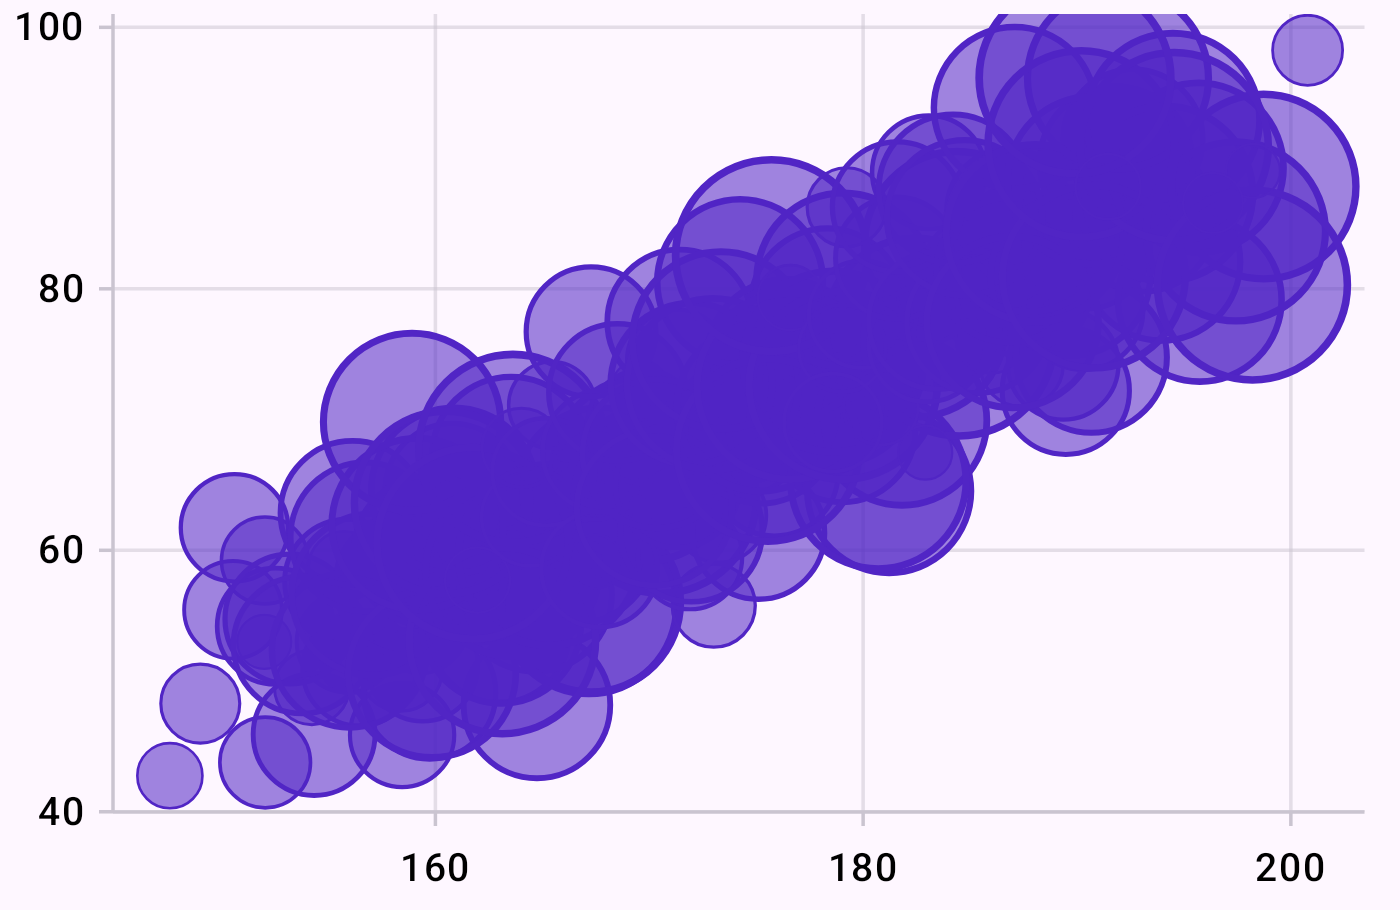
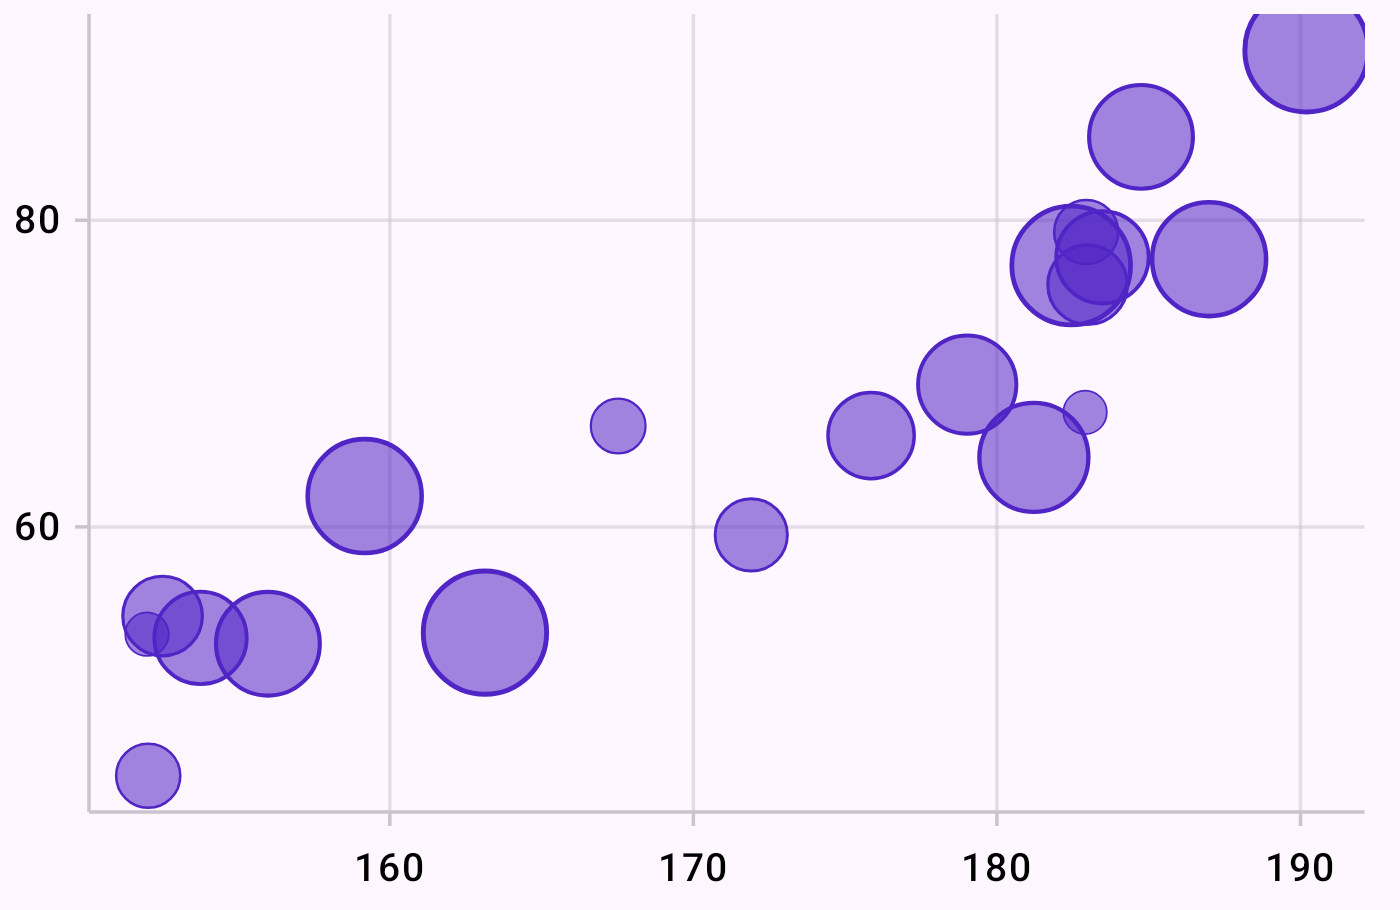
docs: make three chart pictures show what their charts do
The bubble chart was the reported one, and looking at the rest of the
gallery turned up two more with the same character: a picture that is
technically a correct render and tells the reader nothing.

**Bubble chart.** All 160 people at the default size range drew one solid
overlapping mass. A bubble chart is read by comparing areas, which needs
the areas to be separable. Twenty of the hundred and sixty, with the size
range bounded to 5-18dp.

**Network graph.** The capture was very nearly blank — 7KB against a
typical 120KB. The force simulation runs on Dispatchers.Default, which
neither `waitForIdle` nor the test's frame clock waits for, so the capture
was taken while the layout still had no positions. `ChartRenderMode.Static`
is the library's own answer to exactly this: it substitutes the circular
layout, which is instant and reproducible, and the KDoc on it says so.
The docs capture is a static export and should always have been asking
for one. With `GraphLabels.All` it now reads as a service topology.

**Radar chart.** It drew a perfect regular hexagon from 78/92/61/45/70/83.
That is not a bug: `RadarNormalization.PerAxis` is the default and scales
each spoke to its own metric's range, and a single series makes that range
one value wide, so every point lands on the outer ring whatever the numbers
are. The picture was faithfully illustrating the README's first radar
example, which is the thing actually at fault — a first example that can
[…]

diff --git a/app/src/androidTest/java/io/devkit/DocsAssetCaptureTest.kt b/app/src/androidTest/java/io/devkit/DocsAssetCaptureTest.kt
@@ -62,6 +62,8 @@ import io.devkit.chartkit.charts.Histogram
 import io.devkit.chartkit.charts.HorizontalBarChart
 import io.devkit.chartkit.charts.LineChart
 import io.devkit.chartkit.charts.NetworkGraph
+import io.devkit.chartkit.layer.graph.GraphLabels
+import io.devkit.chartkit.render.ChartRenderMode
 import io.devkit.chartkit.charts.PieChart
 import io.devkit.chartkit.charts.RadarChart
 import io.devkit.chartkit.charts.RadialBarChart
@@ -165,7 +167,21 @@ class DocsAssetCaptureTest {
             ScatterChart(demo.people, x = { it.heightCm }, y = { it.weightKg }, sceneState = scene, modifier = m)
         },
         Shot("bubble-chart") { _, m ->
-            BubbleChart(demo.people, x = { it.heightCm }, y = { it.weightKg }, size = { it.ageYears }, modifier = m)
+            // Twenty of the hundred and sixty, and a bounded size range.
+            //
+            // A bubble chart is read by comparing areas, which needs the areas
+            // to be separable: the whole sample at the default sizing drew a
+            // single overlapping mass in which no individual bubble — and so no
+            // value of the third variable — could be seen at all. A scatter can
+            // carry that many points; a bubble chart cannot, and a picture that
+            // pretends otherwise teaches the wrong thing about when to reach
+            // for one.
+            BubbleChart(
+                demo.people.filterIndexed { index, _ -> index % 8 == 0 },
+                x = { it.heightCm }, y = { it.weightKg }, size = { it.ageYears },
+                minBubbleSize = 5.dp, maxBubbleSize = 18.dp,
+                modifier = m,
+            )
         },
         Shot("histogram") { scene, m ->
             Histogram(demo.responseTimes, value = { value: Double -> value }, sceneState = scene, modifier = m)
@@ -186,7 +202,17 @@ class DocsAssetCaptureTest {
             RadialBarChart(demo.systemMetrics, value = { it.value }, label = { it.name }, maxValue = 100.0, modifier = m)
         },
         Shot("radar-chart") { _, m ->
-            RadarChart(demo.profileThisQuarter, metric = { it.aspect }, value = { it.score }, modifier = m)
+            // Scores out of a hundred, on one explicit range. The default
+            // per-axis normalisation gives each spoke its own domain, and a
+            // single series makes that domain one value wide — every point then
+            // sits on the outer ring and the chart is a regular hexagon no
+            // matter what the scores are.
+            RadarChart(
+                demo.profileThisQuarter,
+                metric = { it.aspect }, value = { it.score },
+                valueRange = 0.0..100.0,
+                modifier = m,
+            )
         },
         Shot("heatmap") { _, m ->
             Heatmap(demo.trafficGrid, x = { it.day }, y = { it.hour }, value = { it.requests }, modifier = m)
@@ -233,10 +259,19 @@ class DocsAssetCaptureTest {
             GaugeChart(value = 72.0, min = 0.0, max = 100.0, modifier = m)
         },
         Shot("network-graph") { _, m ->
+            // The force simulation runs on Dispatchers.Default, which neither
+            // `waitForIdle` nor the test frame clock waits for, so a capture
+            // taken here caught the layout before it had positions and wrote a
+            // blank image. `Static` is the library's own answer: it substitutes
+            // the circular layout, which is instant and reproducible — the
+            // whole requirement for an exported picture.
             NetworkGraph(
                 nodes = demo.services, edges = demo.serviceCalls,
                 nodeId = { it.name }, source = { it.from }, target = { it.to },
-                nodeWeight = { it.requests }, modifier = m,
+                nodeWeight = { it.requests },
+                renderMode = ChartRenderMode.Static,
+                labels = GraphLabels.All,
+                modifier = m,
             )
         },
         Shot("multiple-series") { scene, m ->

diff --git a/chartkit/README.md b/chartkit/README.md
@@ -528,8 +528,16 @@ RadarChart(
     data = ratings,
     metric = { it.aspect },
     value = { it.score },
+    valueRange = 0.0..100.0,
 )
 ```
+
+`valueRange` is in the first example because a single series without one is the
+case where the default has nothing to say. `RadarNormalization.PerAxis` scales
+each spoke to its own metric's range, and one series gives each spoke a range of
+exactly one value — so every point lands on the outer ring and the chart draws a
+regular polygon whatever the numbers are. Scores out of a hundred are
+comparable, so give them one range and let the shape carry the meaning.
 
 Comparing two or three profiles is what a radar chart is genuinely good at:
 
